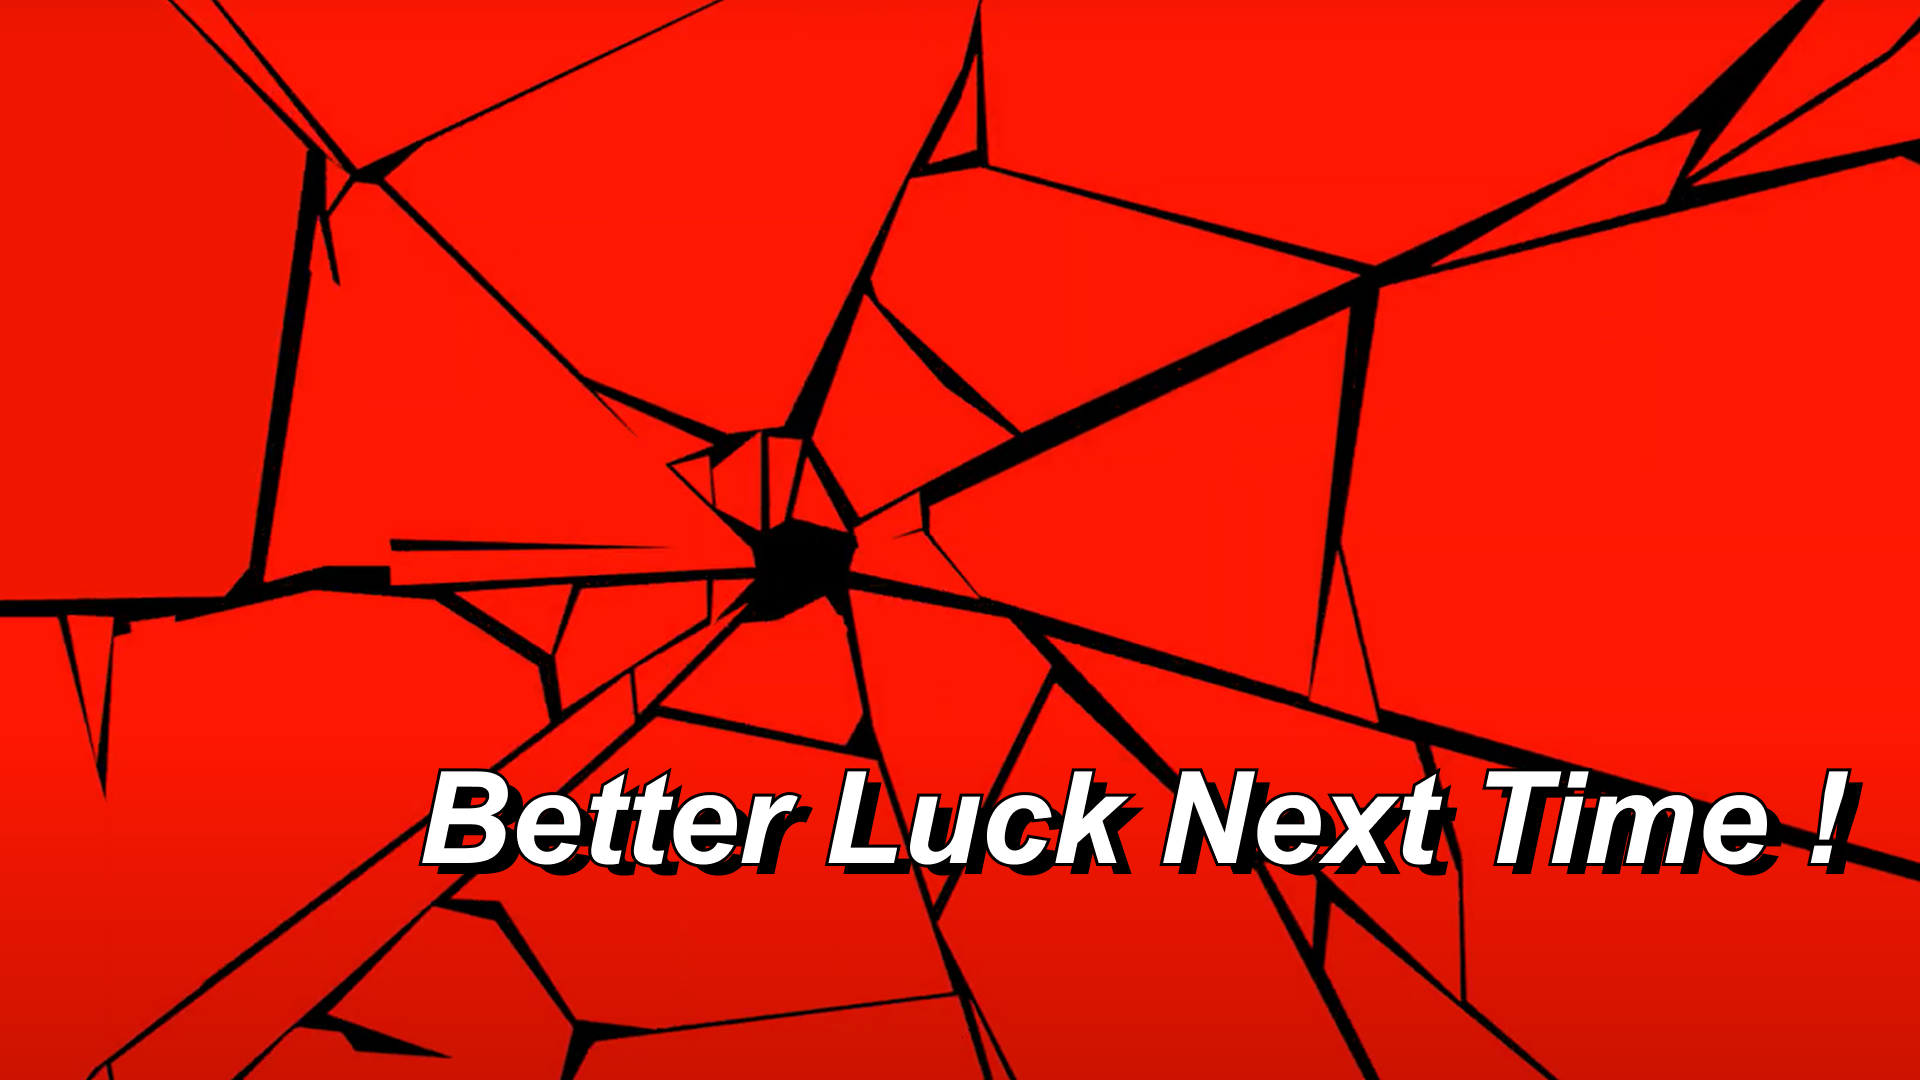
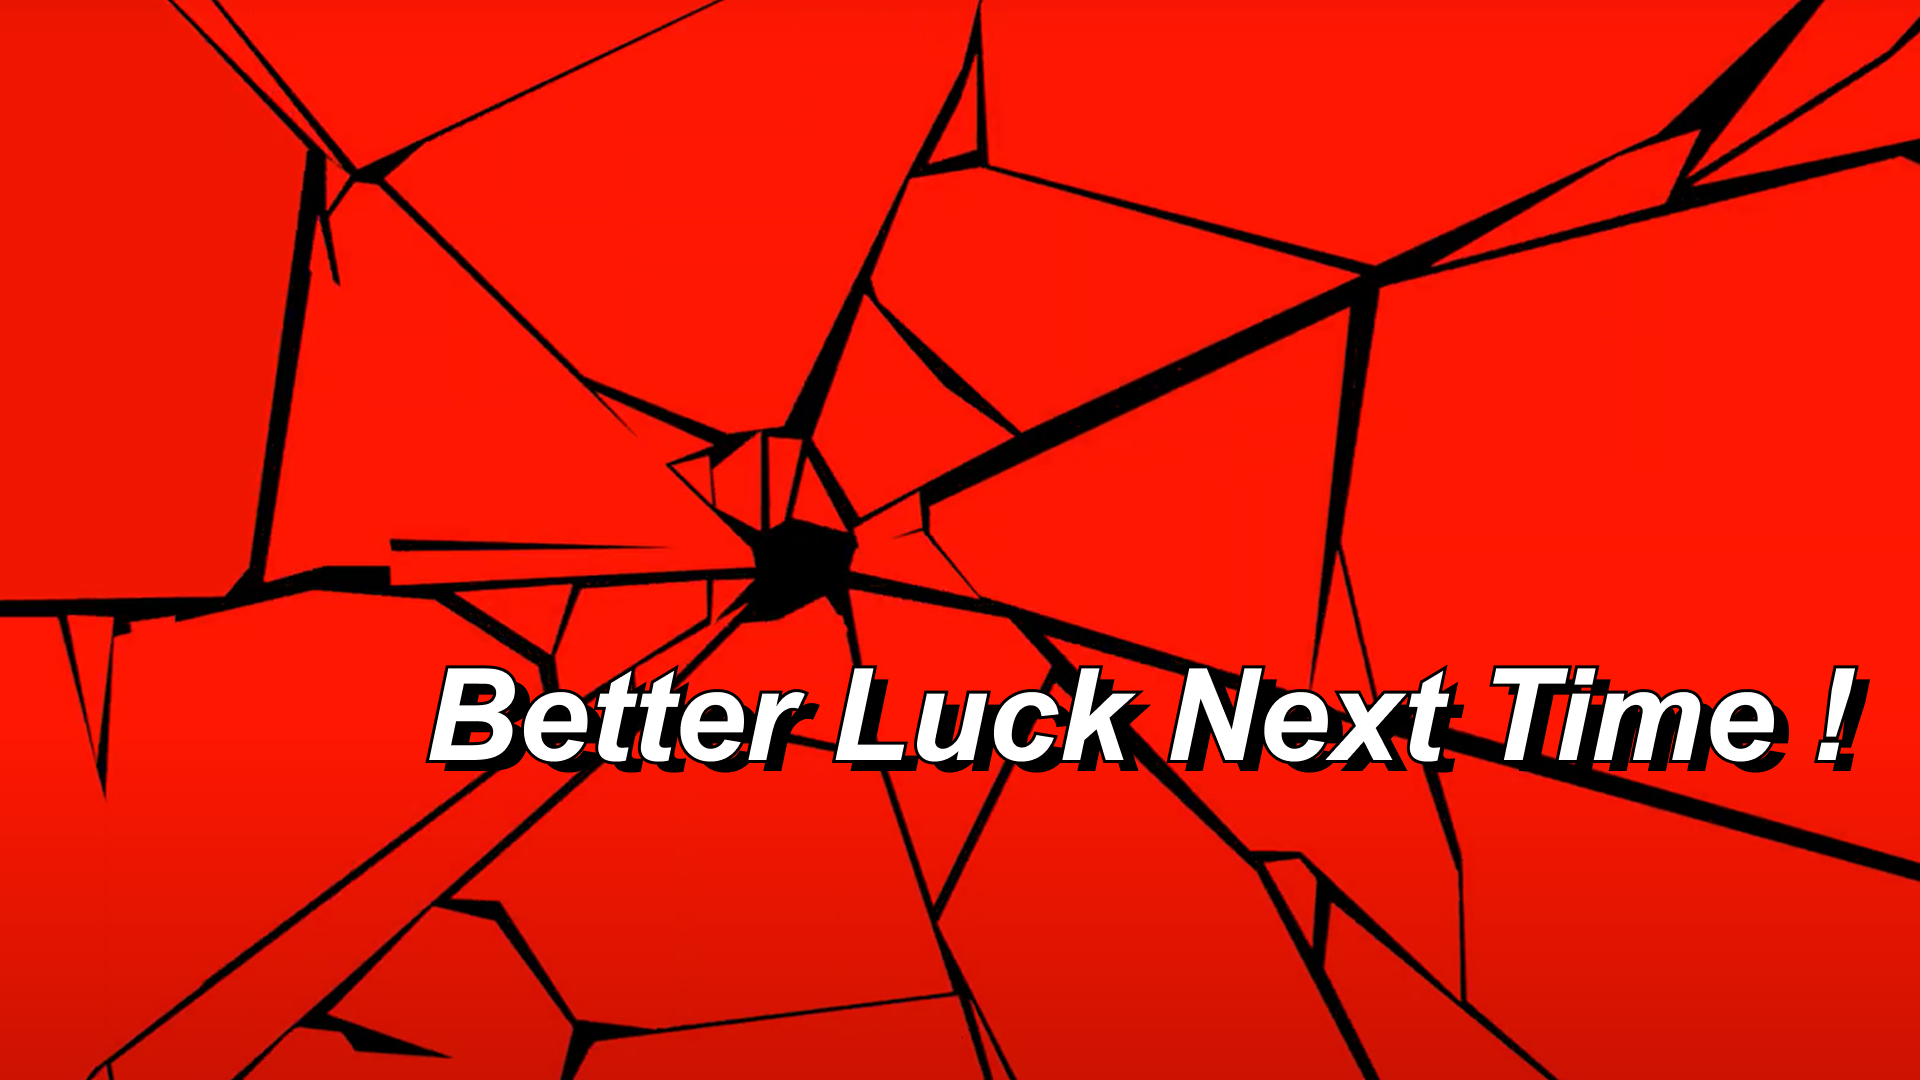
adjust lose_screen

Changed region(s): [[0.2188, 0.6111, 0.9688, 0.825]]

diff --git a/poker_client.py b/poker_client.py
@@ -153,7 +153,7 @@ class PokerClient:
         content_container.place(relx=0.5, rely=0.5, anchor='center')
         tk.Label(content_container, text="Server IP:", bg='#6A0B0A', fg='white', font=('Arial', 12)).pack(pady=(20, 2), padx=40)
         self.ip_entry = tk.Entry(content_container, font=('Arial', 12), justify='center')
-        self.ip_entry.insert(0, "localhost")
+        self.ip_entry.insert(0, "localhost") # change IP
         self.ip_entry.pack(pady=5, padx=10)
         tk.Label(content_container, text="Your Name:", bg='#6A0B0A', fg='white', font=('Arial', 12)).pack(pady=(10, 2))
         self.name_entry = tk.Entry(content_container, font=('Arial', 12), justify='center')
